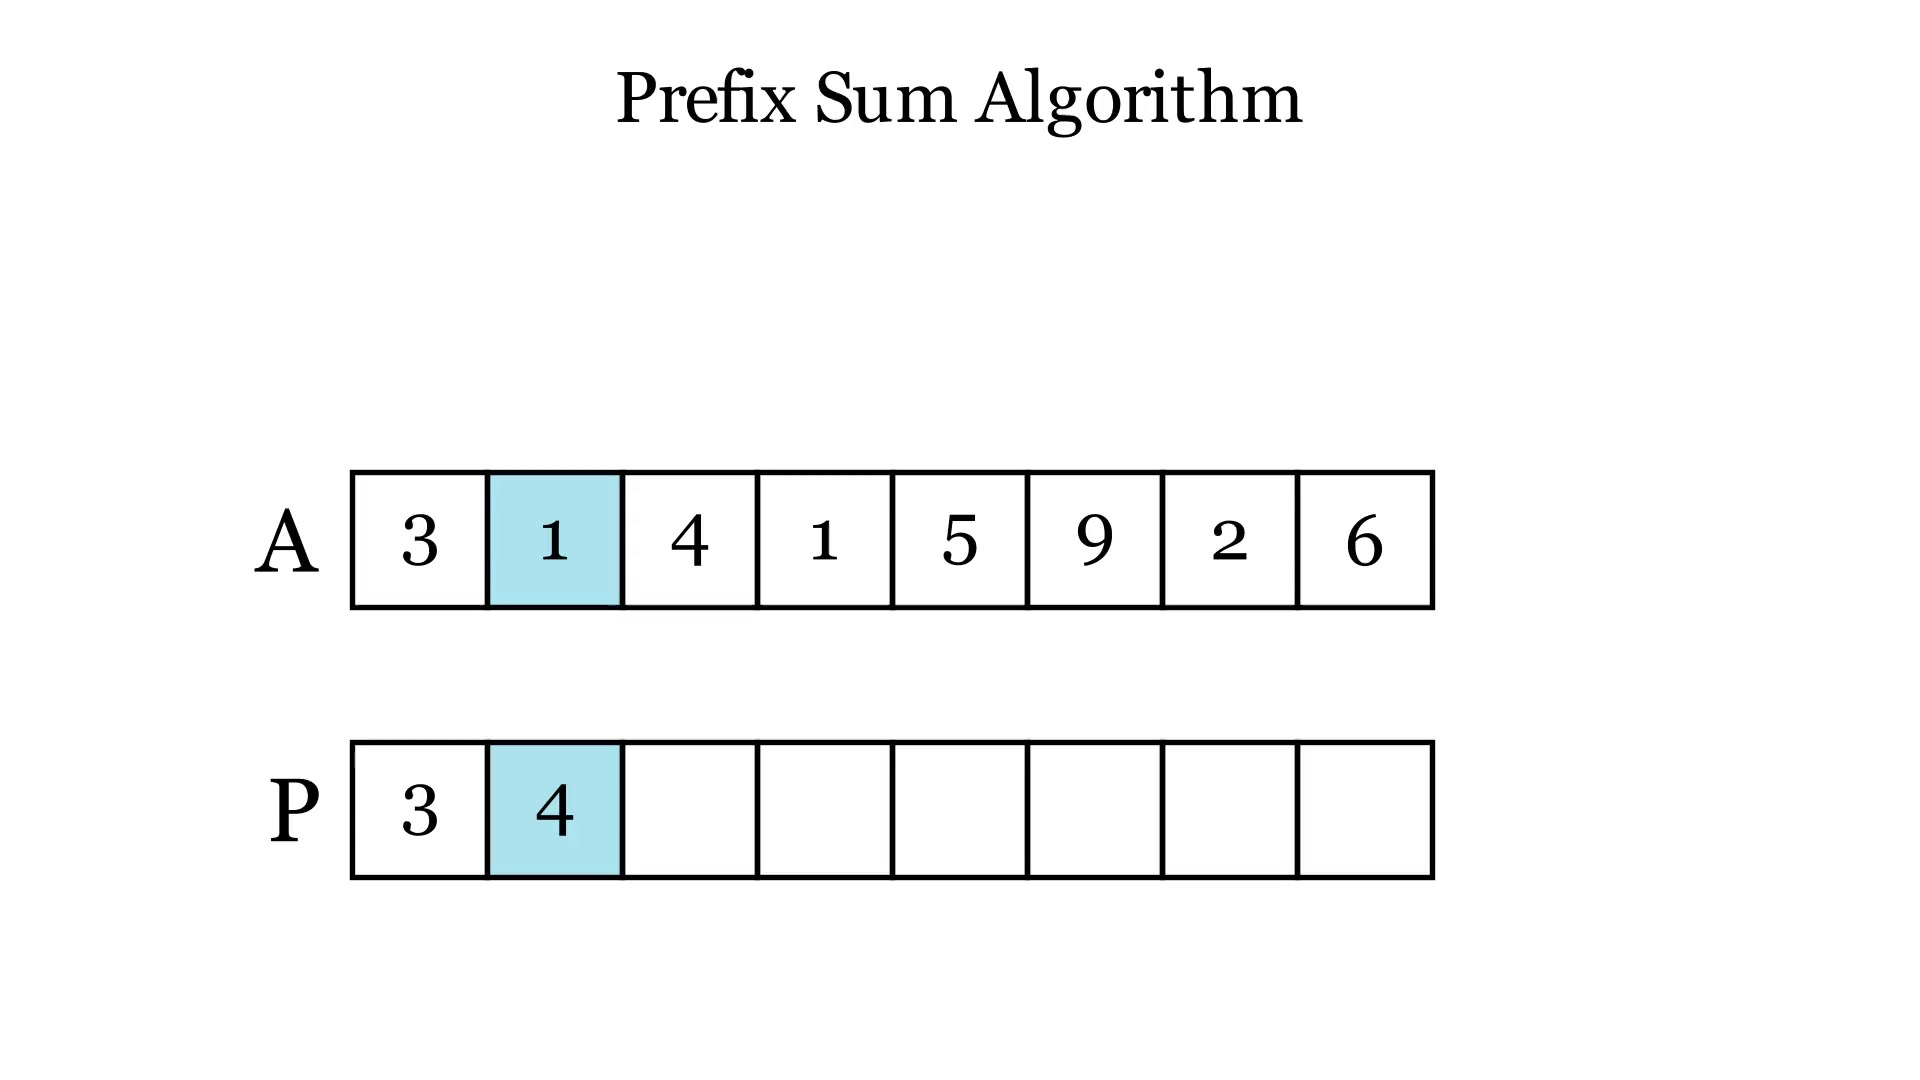
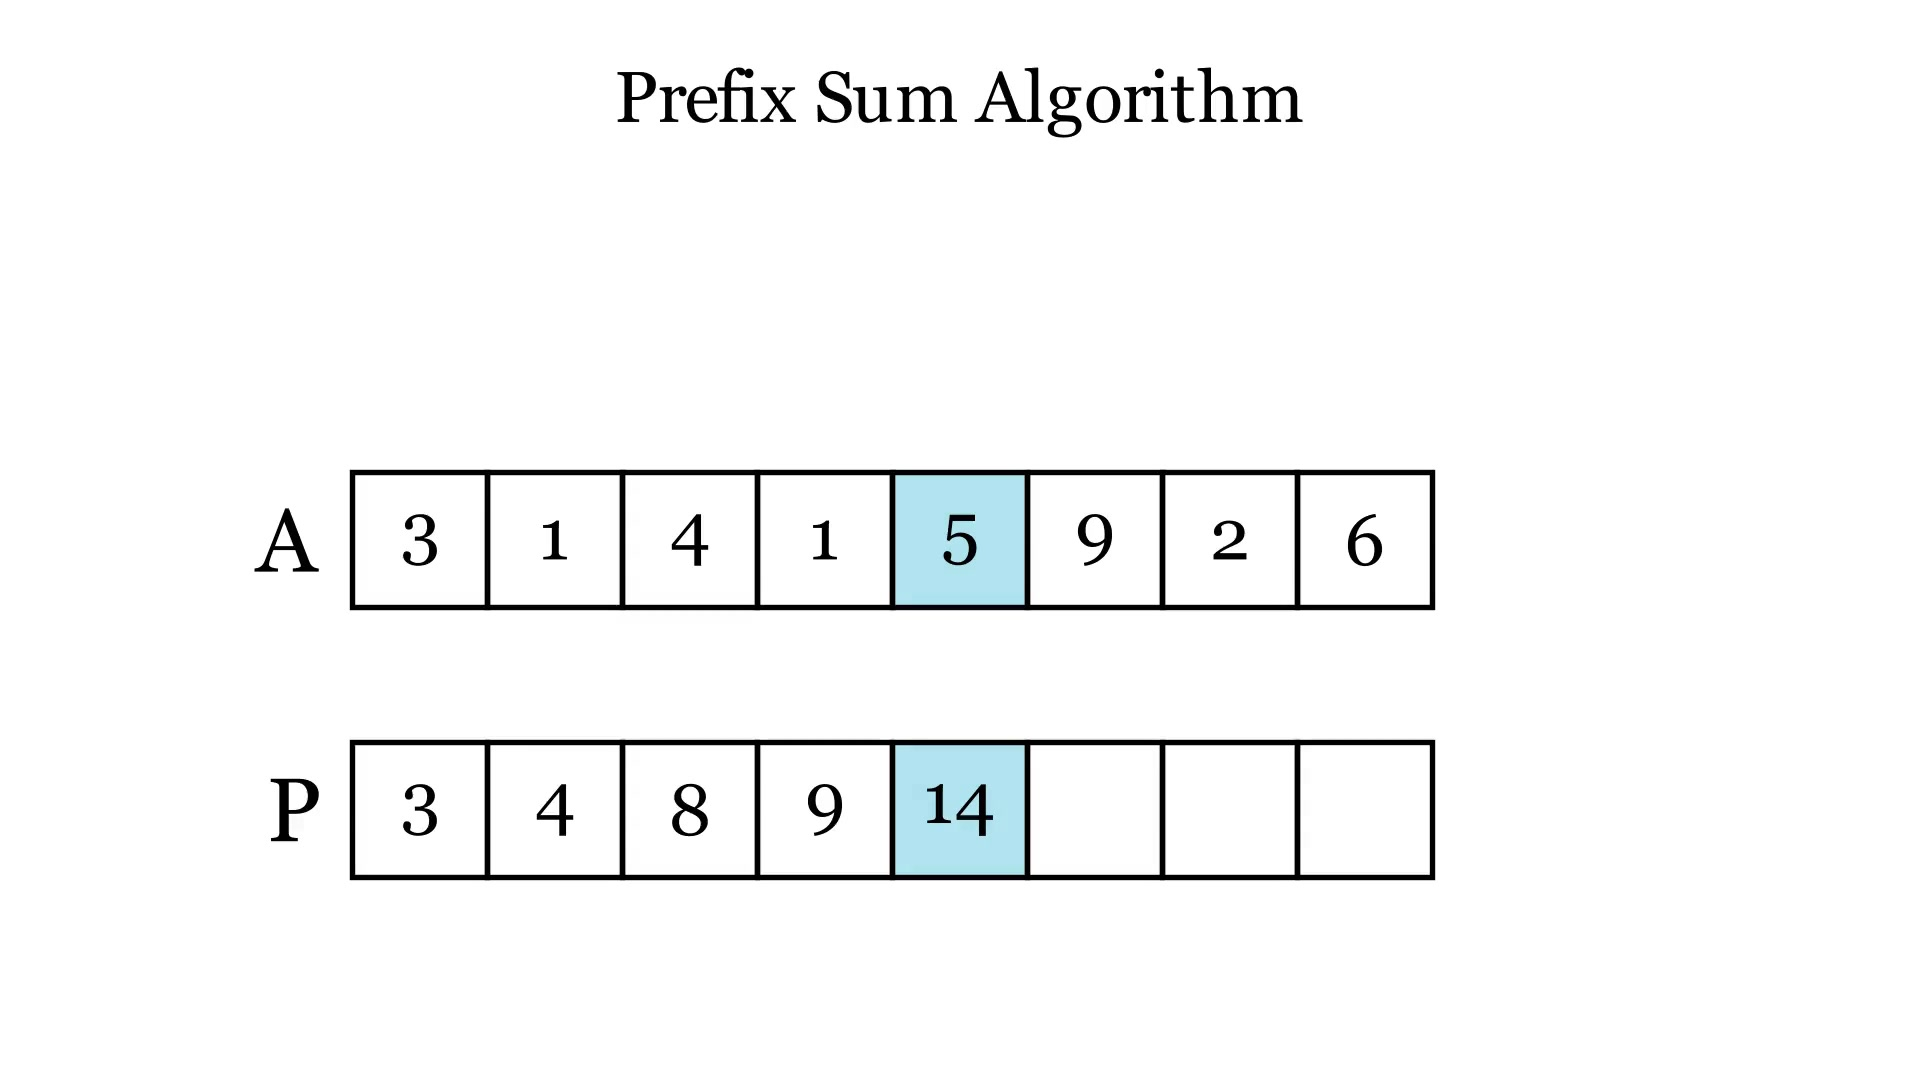
fixing PrefixSum1.jpg

diff --git a/_posts/2024-06-27-competitive-programming.md b/_posts/2024-06-27-competitive-programming.md
@@ -35,7 +35,7 @@ featured: true
 toc: true
 preview: In this comprehensive guide, we delve into the world of Dynamic Programming with C++. Learn the core principles of Competitive Programming, explore various algorithmic examples, and understand performance differences through detailed code comparisons. Perfect for developers looking to optimize their coding skills and boost algorithm efficiency.
 beforetoc: In this comprehensive guide, we delve into the world of Competitive Programming with C++. Learn the core principles of Competitive Programming, explore various algorithmic examples, and understand performance differences through detailed code comparisons. Perfect for developers looking to optimize their coding skills and boost algorithm efficiency.
-lastmod: 2024-09-25T01:04:46.671Z
+lastmod: 2024-09-25T01:07:08.162Z
 ---
 
 # 1. Introduction
@@ -3027,9 +3027,6 @@ The **Prefix Sum Array** is an algorithm that helps quickly calculate the sum of
    - **Purpose**:
    - Each element $P[i]$ represents the total sum of all elements from $A[0]$ up to $A[i]$.
 
-![]({{ site.baseurl }}/assets/images/PrefixSum1.jpg)
-_Figura 11.1.1.1.A - Step in the Prefix Sum Algorithm: The image shows the calculation of the first two elements of the prefix sum array $P$ from the original array $A$._{: class="legend"}
-
 1. **Perform Range Sum Queries**
 
    To find the sum of elements from index $i$ to $j$ (inclusive):
@@ -3066,6 +3063,9 @@ Suppose we have the array:
 $$A = [3, 1, 4, 1, 5, 9, 2, 6]$$
 
 **Step 1**: Construct the Prefix Sum Array $P$
+
+![]({{ site.baseurl }}/assets/images/PrefixSum1.jpg)
+_Figura 11.1.1.1.A - Step in the Prefix Sum Algorithm: The image shows the calculation of the first two elements of the prefix sum array $P$ from the original array $A$._{: class="legend"}
 
 Compute $P$:
 
